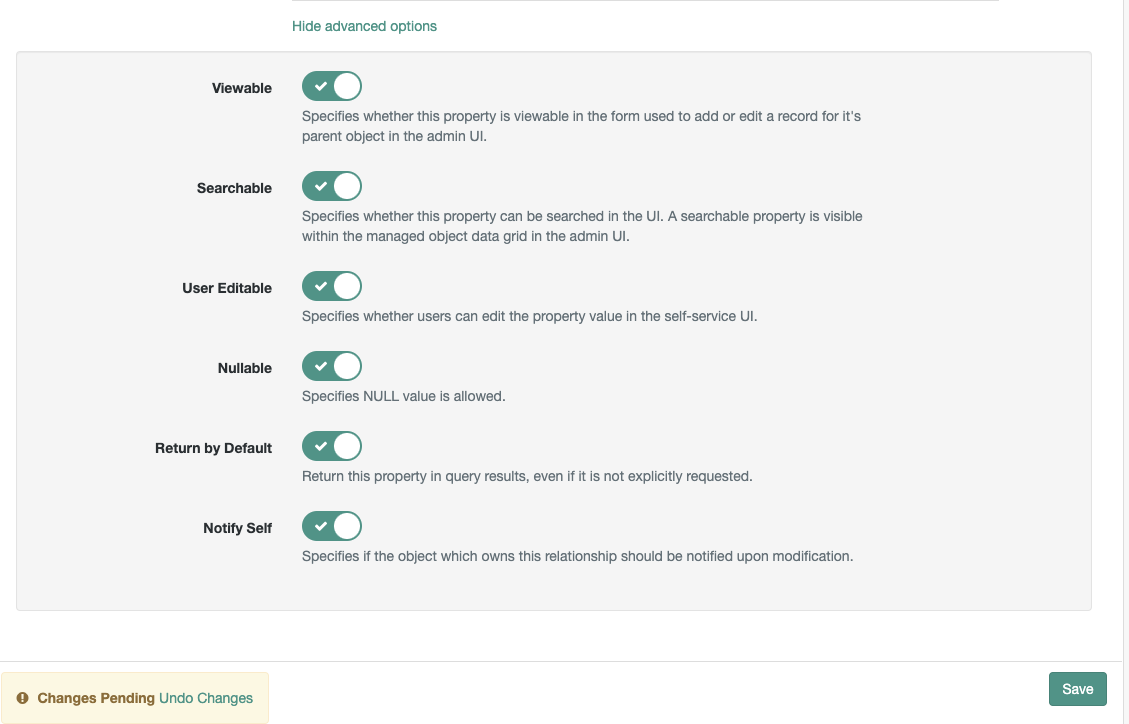
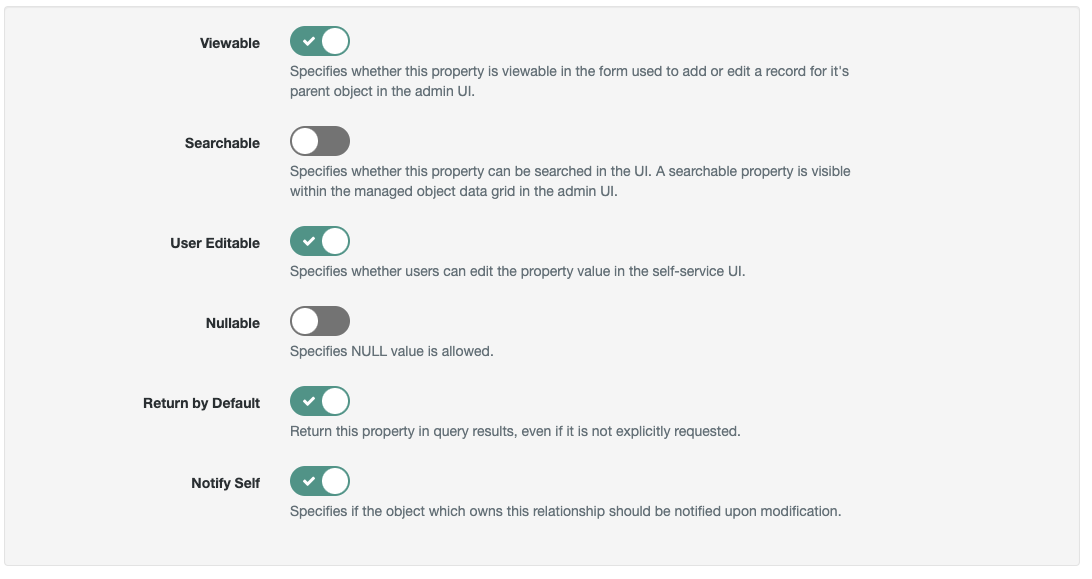
Updated the manager property options

diff --git a/SCIM/README.md b/SCIM/README.md
@@ -126,7 +126,7 @@ If your Axiad Cloud tenant is already configured with the required mappings attr
 
 1. Edit the `manager` property 
 2. Under `Details`, click on `Show advanced options`
-3. Enable all the options( `Viewable`, `Searchable`, `User Editable`, `Nullable`, `Return by Default` and `Notify Self`) as shown
+3. Enable `Viewable`, `User Editable`, `Return by Default` and the `Notify Self` options as shown
 
    ![Manager_property_options](./images/users_mapping/manager_property_options.png)
 
